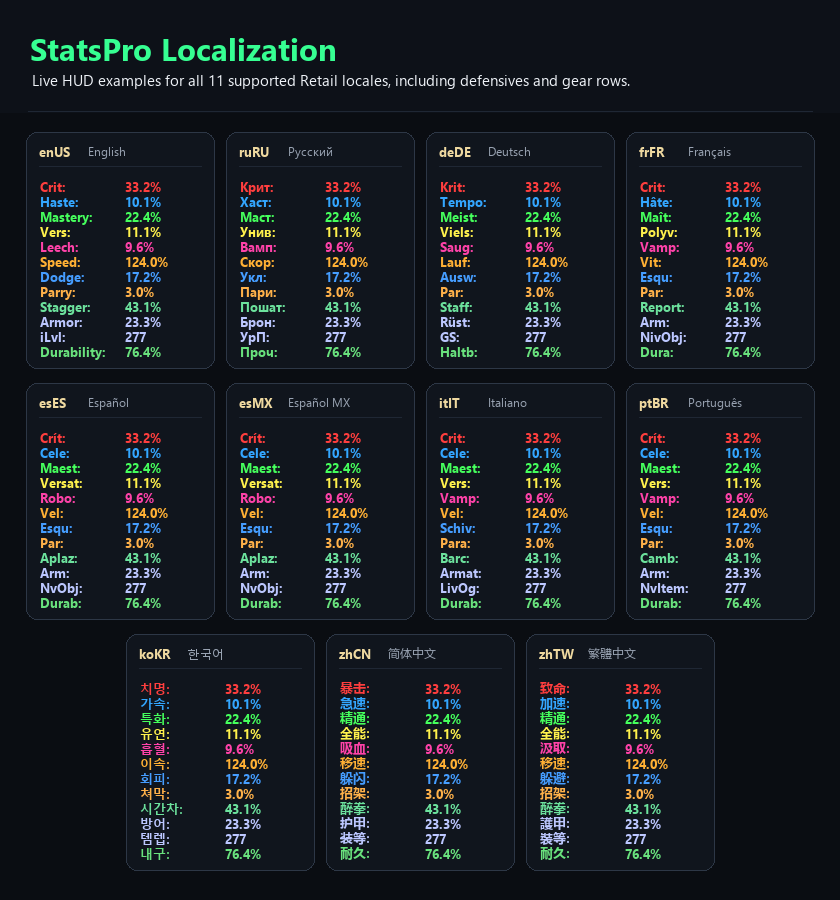
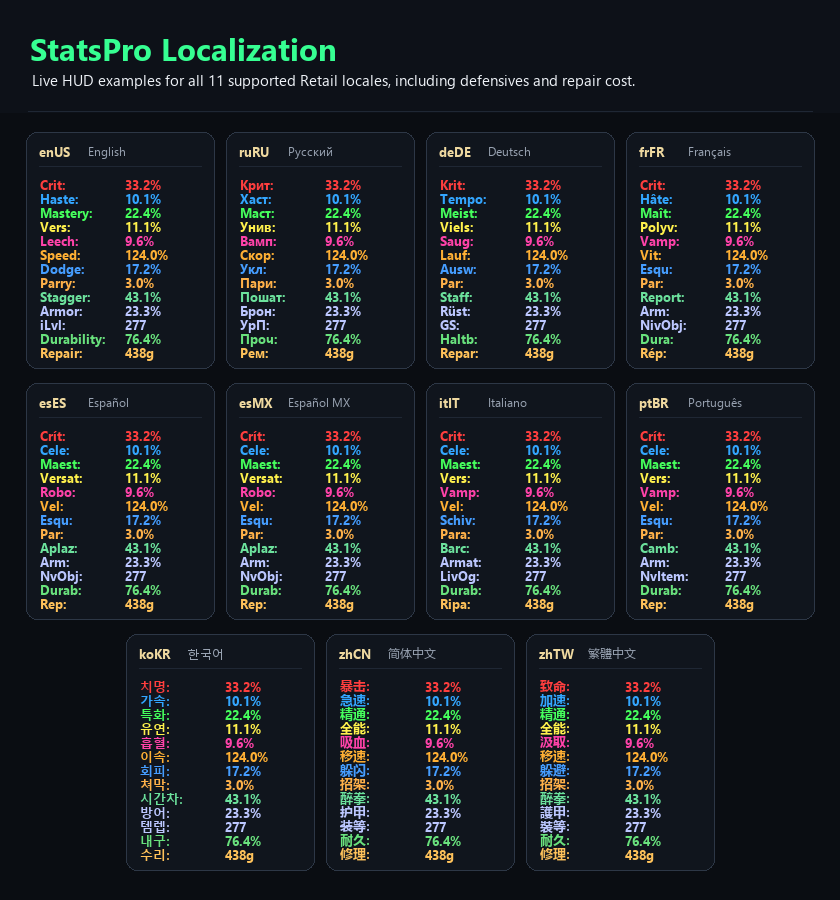
docs: add repair cost to localization preview

diff --git a/README.md b/README.md
@@ -105,7 +105,7 @@ Stat labels render in your WoW client's language by default — no setup require
 Curated short-form translations across all 11 retail WoW locales preserve the same
 compact 4-7 char visual rhythm as the original English labels:
 
-![StatsPro localization preview — live HUD label examples with offensive, tertiary, defensive, item level, and durability rows across all 11 Retail locales](screenshots/localization.png)
+![StatsPro localization preview — live HUD label examples with offensive, tertiary, defensive, item level, durability, and repair cost rows across all 11 Retail locales](screenshots/localization.png)
 
 | Locale | Sample row |
 |---|---|